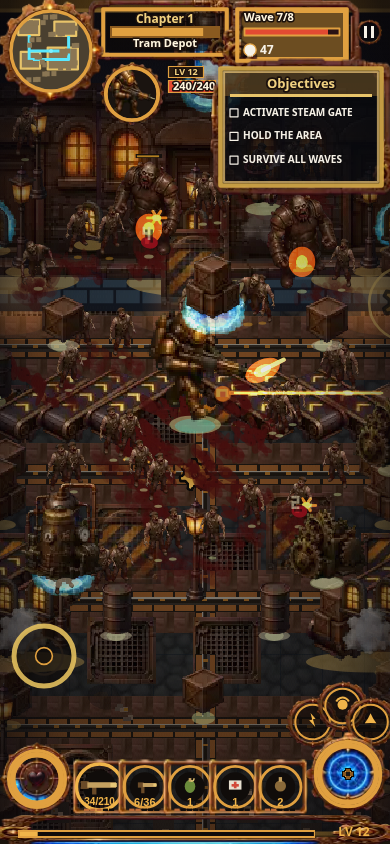
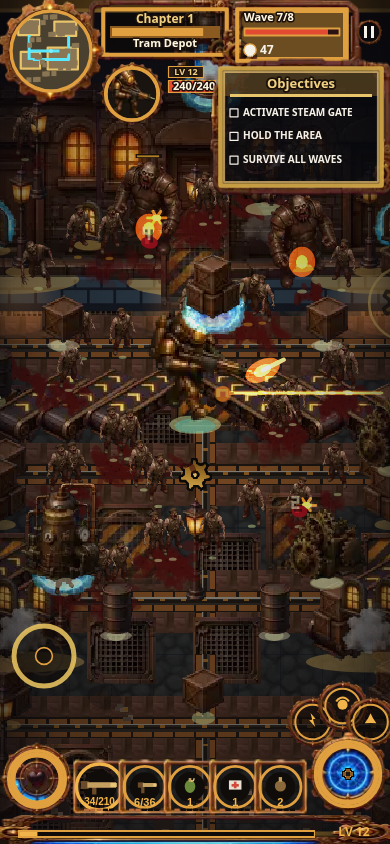
Densify Brass District yard props for 390 phone review
Pack breakables, flank conveyors, extra pipe runs and belt loot on the
wall lanes while keeping YARD_CLEAR open. Refresh ground vents and metal
pads, add world-props-r25 capture script, and ship phone/compare shots.

diff --git a/src/render/yard-fx.ts b/src/render/yard-fx.ts
@@ -12,10 +12,15 @@ const BUILDINGS = [
 
 const BELTS = [
   { x: 296, y: 420, w: 368, vert: 0 },
+  { x: 304, y: 308, w: 148, vert: 0 },
+  { x: 508, y: 308, w: 148, vert: 0 },
 ];
 
 const PIPE_RUNS = [
   { x: 296, y: 232, len: 368, vert: 0 },
+  { x: 304, y: 528, len: 352, vert: 0 },
+  { x: 304, y: 308, len: 92, vert: 0 },
+  { x: 564, y: 308, len: 92, vert: 0 },
 ];
 
 const BELT_H = 72;
@@ -32,22 +37,30 @@ const PROPS: { id: string; x: number; y: number }[] = [
   { id: "lamp", x: 360, y: 208 },
   { id: "lamp", x: 480, y: 204 },
   { id: "lamp", x: 600, y: 208 },
-  { id: "crate_stack", x: 332, y: 340 },
+  { id: "breakable_boiler", x: 332, y: 340 },
+  { id: "breakable_gear_pylon", x: 328, y: 388 },
   { id: "crate_stack", x: 340, y: 368 },
   { id: "barrel", x: 336, y: 386 },
+  { id: "decal_hazard", x: 336, y: 418 },
+  { id: "conveyor", x: 334, y: 308 },
   { id: "crate", x: 332, y: 428 },
   { id: "valve_steam", x: 334, y: 468 },
   { id: "decal_vent", x: 336, y: 450 },
+  { id: "decal_grate", x: 332, y: 492 },
   { id: "barrel", x: 332, y: 508 },
   { id: "crate_stack", x: 336, y: 548 },
   { id: "pipes_blue_tank", x: 334, y: 596 },
   { id: "crate", x: 332, y: 636 },
-  { id: "crate_stack", x: 628, y: 340 },
+  { id: "breakable_boiler", x: 628, y: 340 },
+  { id: "breakable_gear_pylon", x: 632, y: 388 },
   { id: "crate_stack", x: 620, y: 368 },
   { id: "barrel", x: 632, y: 386 },
+  { id: "decal_hazard", x: 632, y: 418 },
+  { id: "conveyor", x: 630, y: 308 },
   { id: "crate", x: 628, y: 428 },
   { id: "valve_steam", x: 630, y: 468 },
   { id: "decal_vent", x: 632, y: 450 },
+  { id: "decal_grate", x: 628, y: 492 },
   { id: "barrel", x: 628, y: 508 },
   { id: "crate_stack", x: 632, y: 548 },
   { id: "pipes_blue_tank", x: 630, y: 596 },
@@ -55,7 +68,9 @@ const PROPS: { id: string; x: number; y: number }[] = [
 ];
 
 const TANKS = [
+  { x: 320, y: 340 },
   { x: 320, y: 588 },
+  { x: 640, y: 340 },
   { x: 640, y: 588 },
 ];
 
@@ -425,6 +440,11 @@ function paintCrossPipe(
   blitScaled(ctx, "pipes_blue_tank", x + 28, y + 22, TANK_SCALE);
   blitScaled(ctx, "pipes_blue_tank", x + len - 28, y + 22, TANK_SCALE);
   paintRedValve(ctx, VALVE.x, VALVE.y);
+  if (len > 96) paintRedValve(ctx, x + (len >> 1), y);
+  if (len > 200) {
+    paintRedValve(ctx, x + 48, y);
+    paintRedValve(ctx, x + len - 48, y);
+  }
 }
 
 function steamPuff(ctx: CanvasRenderingContext2D, x: number, y: number, tick: number): void {
@@ -497,6 +517,15 @@ function paintCrossBelt(
   blitSheet(ctx, "blue_glow", cx, cy - 8);
   ctx.restore();
   blitScaled(ctx, "crate", cx, cy, 1.35);
+  if (w > 200) {
+    const cx2 = x + ((crateT + w * 0.46) % w);
+    ctx.save();
+    ctx.globalCompositeOperation = "lighter";
+    ctx.globalAlpha = 0.62 + ((tick >> 2) & 1) * 0.22;
+    blitSheet(ctx, "blue_glow", cx2, cy - 6);
+    ctx.restore();
+    blitScaled(ctx, "crate_stack", cx2, cy - 2, 1.12);
+  }
 }
 
 export const HERO_X = 480;

diff --git a/test/zones.test.ts b/test/zones.test.ts
@@ -169,12 +169,21 @@ describe("wave districts", () => {
     expect(readFileSync("docs/reviews/zones/phone_390_brass.png", "utf8").length).toBeGreaterThan(1000);
     expect(readFileSync("docs/reviews/zones/phone_390_boiler.png", "utf8").length).toBeGreaterThan(1000);
     expect(readFileSync("docs/reviews/zones/phone_390_tram.png", "utf8").length).toBeGreaterThan(1000);
+    const r25 = readFileSync("scripts/world-props-shot.mjs", "utf8");
+    expect(r25.includes("world-props-r25")).toBe(true);
+    expect(r25.includes("phone_390_play.png")).toBe(true);
   });
 
   it("puts a signature prop mix in the phone frame of later districts", () => {
     const yard = readFileSync("src/render/yard-fx.ts", "utf8");
+    const brass = yard.slice(yard.indexOf("const PROPS"), yard.indexOf("const TANKS"));
     const boiler = yard.slice(yard.indexOf("const BOILER_PROPS"), yard.indexOf("const BOILER_TANKS"));
     const tram = yard.slice(yard.indexOf("const TRAM_PROPS"), yard.indexOf("const TRAM_TANKS"));
+    expect(brass.includes("breakable_boiler")).toBe(true);
+    expect(brass.includes("breakable_gear_pylon")).toBe(true);
+    expect(brass.includes("decal_hazard")).toBe(true);
+    expect(brass.includes("conveyor")).toBe(true);
+    expect(brass.includes("decal_grate")).toBe(true);
     expect(boiler.includes("breakable_boiler")).toBe(true);
     expect(boiler.includes("valve_steam")).toBe(true);
     expect(tram.includes("crate_stack")).toBe(true);

diff --git a/src/render/ground.ts b/src/render/ground.ts
@@ -92,6 +92,8 @@ function brassPad(c: number, r: number): number {
   if (r >= 20 && r <= 24 && c >= 2 && c <= 10) return 1;
   if (r >= 20 && r <= 24 && c >= 50 && c <= 58) return 1;
   if (r >= 18 && r <= 22 && c >= 2 && c <= 10) return 1;
+  if (r >= 14 && r <= 34 && c >= 2 && c <= 11) return 1;
+  if (r >= 14 && r <= 34 && c >= 49 && c <= 58) return 1;
   if (r >= 30 && r <= 32 && c >= 16 && c <= 28) return 1;
   return 0;
 }
@@ -177,6 +179,10 @@ function build(): void {
   forceVent(52, 20);
   forceVent(18, 28);
   forceVent(40, 32);
+  forceVent(10, 26);
+  forceVent(50, 26);
+  forceVent(12, 34);
+  forceVent(48, 34);
   if (bound === ZONE_BOILER) {
     forceVent(12, 18);
     forceVent(20, 24);

diff --git a/eslint.config.js b/eslint.config.js
@@ -71,7 +71,7 @@ export default tseslint.config(
   },
   { files: ["scripts/**", "*.config.*"], languageOptions: { globals: { process: "readonly", console: "readonly" } } },
   {
-    files: ["scripts/ui-shots.mjs", "scripts/review-phone.mjs", "scripts/feel-dump.mjs", "scripts/chapter-shot.mjs", "scripts/zone-shots.mjs"],
+    files: ["scripts/ui-shots.mjs", "scripts/review-phone.mjs", "scripts/feel-dump.mjs", "scripts/chapter-shot.mjs", "scripts/zone-shots.mjs", "scripts/world-props-shot.mjs"],
     languageOptions: {
       globals: {
         localStorage: "readonly",
